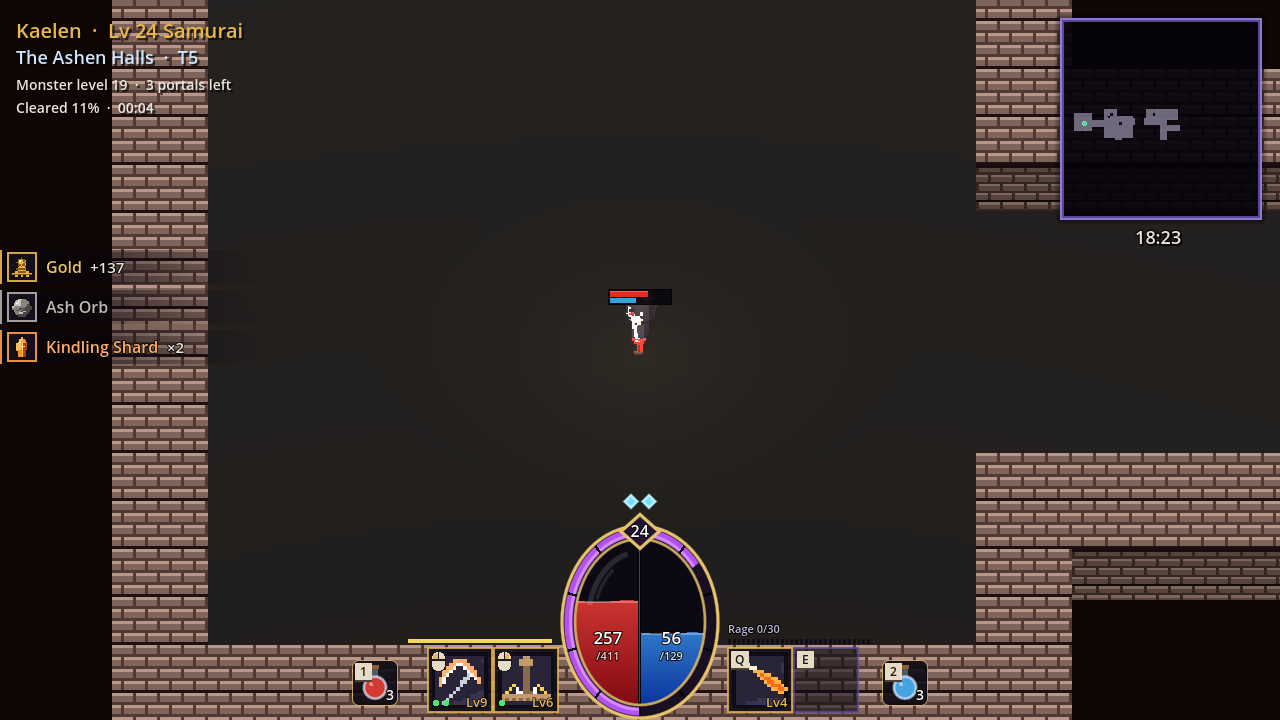
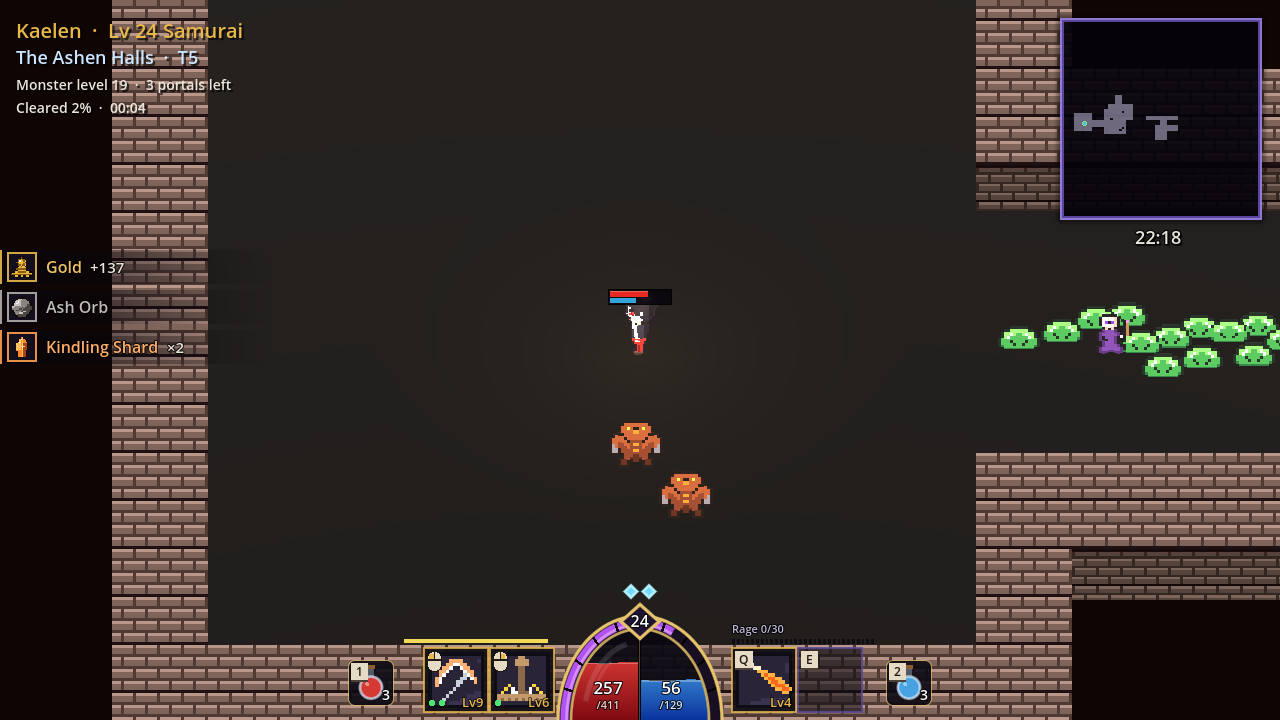
Mirror HUD: only the oval's upper half shows, rising from the bottom edge
Owner's correction: the sketch's mirror is cut by the screen edge. The centre
now sits on the bottom edge, life and mana fill from the edge to the top, the
XP rim runs bottom-left over the top to bottom-right (ten notches), and the
cluster is 40 px shorter. Screenshots and menus.md updated.

Claude-Session: https://claude.ai/code/session_01GALgSjVnubwo1yyZxU2YPv

diff --git a/scripts/UI/PlayerHudBar.cs b/scripts/UI/PlayerHudBar.cs
@@ -9,10 +9,11 @@ namespace ArpgGame.UI;
 
 /// <summary>
 /// The bottom-centre player cluster — docs/design/menus.md -> "HUD: the mirror". Drawn
-/// from the owner's sketch (2026-10-29): an oval mirror split down the middle, life
-/// filling the left half and mana (or what stands in for it) the right, both rising from
-/// the bottom like liquid; its rim is the experience bar, a purple band that fills from
-/// the bottom round the left, cut into ten by black notches. Around it: the level on a
+/// from the owner's sketch (2026-10-29): an oval mirror rising out of the bottom edge
+/// (only its upper half shows), split down the middle, life filling the left half and
+/// mana (or what stands in for it) the right, both rising from the screen edge like
+/// liquid; its rim is the experience bar, a purple band that fills from the bottom left,
+/// over the top, to the bottom right, cut into ten by black notches. Around it: the level on a
 /// small gem at the top, dodge charges above that, the flasks (1 life, 2 mana) at the
 /// outer ends of the skill bar, stamina over the left skills and the class resource over
 /// the right ones. The skills themselves are a separate control (<see cref="CreateSkillRow"/>,
@@ -26,11 +27,11 @@ public partial class PlayerHudBar : Control
     public readonly record struct SideGauge(string Label, string Detail, float Fraction, Color Top, Color Bottom);
 
     public const float Width = 640f;
-    public const float Height = 210f;
+    public const float Height = 170f;
 
     /// <summary>The mirror's half-width and half-height.</summary>
-    public const float MirrorRx = 66f;
-    public const float MirrorRy = 84f;
+    public const float MirrorRx = 70f;
+    public const float MirrorRy = 92f;
 
     /// <summary>Room left either side of the mirror for the skill bar (<see cref="SkillBar.Gap"/>).</summary>
     public const float MirrorClearance = MirrorRx + 22f;
@@ -47,7 +48,16 @@ public partial class PlayerHudBar : Control
     public Func<SideGauge?> RightGauge = () => null;
 
     private const float CenterX = Width / 2f;
-    private static readonly Vector2 Mirror = new(CenterX, Height - MirrorRy - 14f);
+    /// <summary>The oval's centre sits on the screen's bottom edge: only its upper half
+    /// shows, like the sketch's mirror rising out of the frame.</summary>
+    private static readonly Vector2 Mirror = new(CenterX, Height);
+
+    /// <summary>Where the visible mirror ends (the screen's bottom edge): the liquids' floor.</summary>
+    private const float BaseY = Height;
+
+    /// <summary>The visible rim runs from the left end (π) over the top to the right end (2π).</summary>
+    private const float ArcFrom = Mathf.Pi;
+    private const float ArcTo = Mathf.Tau;
     private const float RimW = 9f;
 
     /// <summary>Top of the skill slots, in this control's coordinates (they sit on the same baseline).</summary>
@@ -120,23 +130,12 @@ public partial class PlayerHudBar : Control
     private static Vector2 OnOval(float t, float grow = 0f) =>
         Mirror + new Vector2(Mathf.Cos(t) * (MirrorRx + grow), Mathf.Sin(t) * (MirrorRy + grow));
 
-    private static Vector2[] Oval(float grow, int steps = 72)
-    {
-        var pts = new Vector2[steps];
-        for (int i = 0; i < steps; i++)
-        {
-            pts[i] = OnOval(Mathf.Tau * i / steps, grow);
-        }
-
-        return pts;
-    }
-
     public override void _Draw()
     {
         Font font = ThemeDB.FallbackFont;
 
         // --- the glass and its two liquids ---
-        DrawColoredPolygon(Oval(2f), Glass);
+        DrawColoredPolygon(UpperHalf(2f), Glass);
         DrawHalf(-1, Fraction(Player.Stats.Life), _lifeTrail, LifeTop, LifeBottom);
         SideGauge? gauge = null;
         if (ShowMana)
@@ -155,49 +154,50 @@ public partial class PlayerHudBar : Control
         if (Player.Health is { MaxEnergyShield: > 0f } health && !Net.NetMode.ClientSide)
         {
             float frac = Mathf.Clamp(health.EnergyShield / health.MaxEnergyShield, 0f, 1f);
-            DrawOvalArc(Mathf.Pi / 2f, Mathf.Pi / 2f + Mathf.Pi * frac, -7f, 3f, new Color(0.7f, 0.9f, 1f, 0.9f));
+            DrawOvalArc(ArcFrom, ArcFrom + Mathf.Pi / 2f * frac, -7f, 3f, new Color(0.7f, 0.9f, 1f, 0.9f));
         }
 
         // Glass: the split down the middle and a soft reflection top-left.
-        DrawLine(Mirror + new Vector2(0f, -MirrorRy), Mirror + new Vector2(0f, MirrorRy), new Color(0.02f, 0.01f, 0.03f, 0.95f), 3f);
-        DrawLine(Mirror + new Vector2(0f, -MirrorRy + 4f), Mirror + new Vector2(0f, MirrorRy - 4f), Rim with { A = 0.35f }, 1f);
+        DrawLine(Mirror + new Vector2(0f, -MirrorRy), new Vector2(Mirror.X, BaseY), new Color(0.02f, 0.01f, 0.03f, 0.95f), 3f);
+        DrawLine(Mirror + new Vector2(0f, -MirrorRy + 4f), new Vector2(Mirror.X, BaseY), Rim with { A = 0.35f }, 1f);
         DrawOvalArc(Mathf.Pi * 1.08f, Mathf.Pi * 1.42f, -14f, 4f, new Color(1f, 1f, 1f, 0.12f));
         DrawOvalArc(Mathf.Pi * 1.12f, Mathf.Pi * 1.3f, -20f, 2f, new Color(1f, 1f, 1f, 0.1f));
 
         // --- the rim: experience, ten notches ---
         (int level, float xp) = Progress();
-        DrawOvalArc(0f, Mathf.Tau, RimW / 2f + 1f, RimW + 4f, new Color(0.02f, 0.015f, 0.03f, 0.95f));
-        DrawOvalArc(0f, Mathf.Tau, RimW / 2f + 1f, RimW, XpTrack);
+        DrawOvalArc(ArcFrom, ArcTo, RimW / 2f + 1f, RimW + 4f, new Color(0.02f, 0.015f, 0.03f, 0.95f));
+        DrawOvalArc(ArcFrom, ArcTo, RimW / 2f + 1f, RimW, XpTrack);
         float x = Mathf.Clamp(xp, 0f, 1f);
         if (x > 0.002f)
         {
-            // From the bottom, up the left side, over the top and down the right.
-            DrawOvalArc(Mathf.Pi / 2f, Mathf.Pi / 2f + Mathf.Tau * x, RimW / 2f + 1f, RimW - 2f, XpPurple);
-            DrawOvalArc(Mathf.Pi / 2f, Mathf.Pi / 2f + Mathf.Tau * x, RimW / 2f - 1f, 1.5f, new Color(1f, 0.85f, 1f, 0.45f));
+            // From the bottom left, up and over the top, down to the bottom right.
+            float end = ArcFrom + (ArcTo - ArcFrom) * x;
+            DrawOvalArc(ArcFrom, end, RimW / 2f + 1f, RimW - 2f, XpPurple);
+            DrawOvalArc(ArcFrom, end, RimW / 2f - 1f, 1.5f, new Color(1f, 0.85f, 1f, 0.45f));
         }
 
-        for (int i = 0; i < 10; i++)
+        for (int i = 1; i < 10; i++)
         {
-            float t = Mathf.Pi / 2f + Mathf.Tau * i / 10f;
+            float t = ArcFrom + (ArcTo - ArcFrom) * i / 10f;
             DrawLine(OnOval(t, -1f), OnOval(t, RimW + 3f), new Color(0f, 0f, 0f, 0.95f), 2.5f);
         }
 
-        DrawPolyline(Closed(Oval(-1f)), Rim with { A = 0.85f }, 1.5f, true);
-        DrawPolyline(Closed(Oval(RimW + 3f)), Rim, 2f, true);
+        DrawOvalArc(ArcFrom, ArcTo, -1f, 1.5f, Rim with { A = 0.85f });
+        DrawOvalArc(ArcFrom, ArcTo, RimW + 3f, 2f, Rim);
 
         // --- numbers inside each half ---
         if (Player.Stats.Life is { } life)
         {
             int maxLife = Mathf.RoundToInt(life.Max);
-            Text(font, $"{Mathf.Min(Mathf.CeilToInt(life.Current), maxLife):N0}", Mirror + new Vector2(-MirrorRx * 0.48f, 22f), 17, Colors.White, HorizontalAlignment.Center);
-            Text(font, $"/{maxLife:N0}", Mirror + new Vector2(-MirrorRx * 0.48f, 38f), 11, new Color(1f, 0.8f, 0.78f), HorizontalAlignment.Center);
+            Text(font, $"{Mathf.Min(Mathf.CeilToInt(life.Current), maxLife):N0}", new Vector2(Mirror.X - MirrorRx * 0.45f, BaseY - 26f), 17, Colors.White, HorizontalAlignment.Center);
+            Text(font, $"/{maxLife:N0}", new Vector2(Mirror.X - MirrorRx * 0.45f, BaseY - 11f), 11, new Color(1f, 0.8f, 0.78f), HorizontalAlignment.Center);
         }
 
         if (ShowMana)
         {
             Stats.ResourcePool mana = Player.Stats.Mana!;
-            Text(font, $"{Mathf.FloorToInt(mana.Current):N0}", Mirror + new Vector2(MirrorRx * 0.48f, 22f), 17, Colors.White, HorizontalAlignment.Center);
-            Text(font, $"/{Mathf.RoundToInt(mana.Max):N0}", Mirror + new Vector2(MirrorRx * 0.48f, 38f), 11, new Color(0.8f, 0.9f, 1f), HorizontalAlignment.Center);
+            Text(font, $"{Mathf.FloorToInt(mana.Current):N0}", new Vector2(Mirror.X + MirrorRx * 0.45f, BaseY - 26f), 17, Colors.White, HorizontalAlignment.Center);
+            Text(font, $"/{Mathf.RoundToInt(mana.Max):N0}", new Vector2(Mirror.X + MirrorRx * 0.45f, BaseY - 11f), 11, new Color(0.8f, 0.9f, 1f), HorizontalAlignment.Center);
         }
         else if (gauge is { } gg)
         {
@@ -261,12 +261,16 @@ public partial class PlayerHudBar : Control
         }
     }
 
-    private static Vector2[] Closed(Vector2[] pts)
+    /// <summary>The visible (upper) half of the oval as a polygon, closed along the bottom edge.</summary>
+    private static Vector2[] UpperHalf(float grow, int steps = 40)
     {
-        var closed = new Vector2[pts.Length + 1];
-        pts.CopyTo(closed, 0);
-        closed[^1] = pts[0];
-        return closed;
+        var pts = new Vector2[steps + 1];
+        for (int i = 0; i <= steps; i++)
+        {
+            pts[i] = OnOval(ArcFrom + (ArcTo - ArcFrom) * i / steps, grow);
+        }
+
+        return pts;
     }
 
     /// <summary>An arc of the oval from <paramref name="from"/> to <paramref name="to"/> (radians, see <see cref="OnOval"/>).</summary>
@@ -303,9 +307,10 @@ public partial class PlayerHudBar : Control
 
         var colors = new Color[fill.Length];
         float yTop = Mirror.Y - MirrorRy;
+        float span = BaseY - yTop;
         for (int i = 0; i < fill.Length; i++)
         {
-            float k = Mathf.Clamp((fill[i].Y - yTop) / (2f * MirrorRy), 0f, 1f);
+            float k = Mathf.Clamp((fill[i].Y - yTop) / span, 0f, 1f);
             colors[i] = top.Lerp(bottom, k);
         }
 
@@ -320,7 +325,8 @@ public partial class PlayerHudBar : Control
         }
     }
 
-    private static float SurfaceY(float value) => Mirror.Y + MirrorRy - 2f * MirrorRy * Mathf.Clamp(value, 0f, 1f);
+    /// <summary>The liquid's surface: empty at the screen edge, full at the top of the oval.</summary>
+    private static float SurfaceY(float value) => BaseY - (BaseY - (Mirror.Y - MirrorRy)) * Mathf.Clamp(value, 0f, 1f);
 
     private static float HalfWidthAt(float y)
     {
@@ -338,7 +344,7 @@ public partial class PlayerHudBar : Control
         }
 
         float surface = SurfaceY(value);
-        float bottomY = Mirror.Y + MirrorRy;
+        float bottomY = BaseY;
         if (bottomY - surface < 1.5f)
         {
             return null;

diff --git a/docs/design/menus.md b/docs/design/menus.md
@@ -803,13 +803,15 @@ has three entries. The scene is still there for development.
 `UI/PlayerHudBar.cs` (vitals) and `SkillBar` in `UI/HudWidgets.cs`, the same in realities,
 the hideout and the Survival Rift.
 
-- **An oval mirror** at the bottom centre, split down the middle: **life** fills the left
-  half and **mana** the right, both rising from the bottom like liquid (a gentle wave on
+- **An oval mirror** rising out of the bottom edge: only its **upper half** shows (the
+  owner's correction after the first build, which drew the whole oval and took too much
+  screen). Split down the middle: **life** fills the left half and **mana** the right,
+  both rising from the screen edge like liquid (a gentle wave on
   the surface, the lighter "recent damage" trail kept from the old bars). Current and
   maximum sit inside each half. In the Rift, with no mana, the right half carries the
   danger gauge and its words sit over the right-hand skills.
-- **The rim is the experience bar**: a purple band that fills from the bottom, up the
-  left side, over the top and down the right, cut into ten by black notches so the
+- **The rim is the experience bar**: a purple band that fills from the bottom left, up
+  and over the top, down to the bottom right, cut into ten by black notches so the
   percentage reads at a glance. The level sits on a small gem at the top of the rim.
 - Around it: dodge charges over the gem, energy shield as a pale band inside the life
   half, stamina over the left skills, the class resource (Rage, Combo...) over the right.
